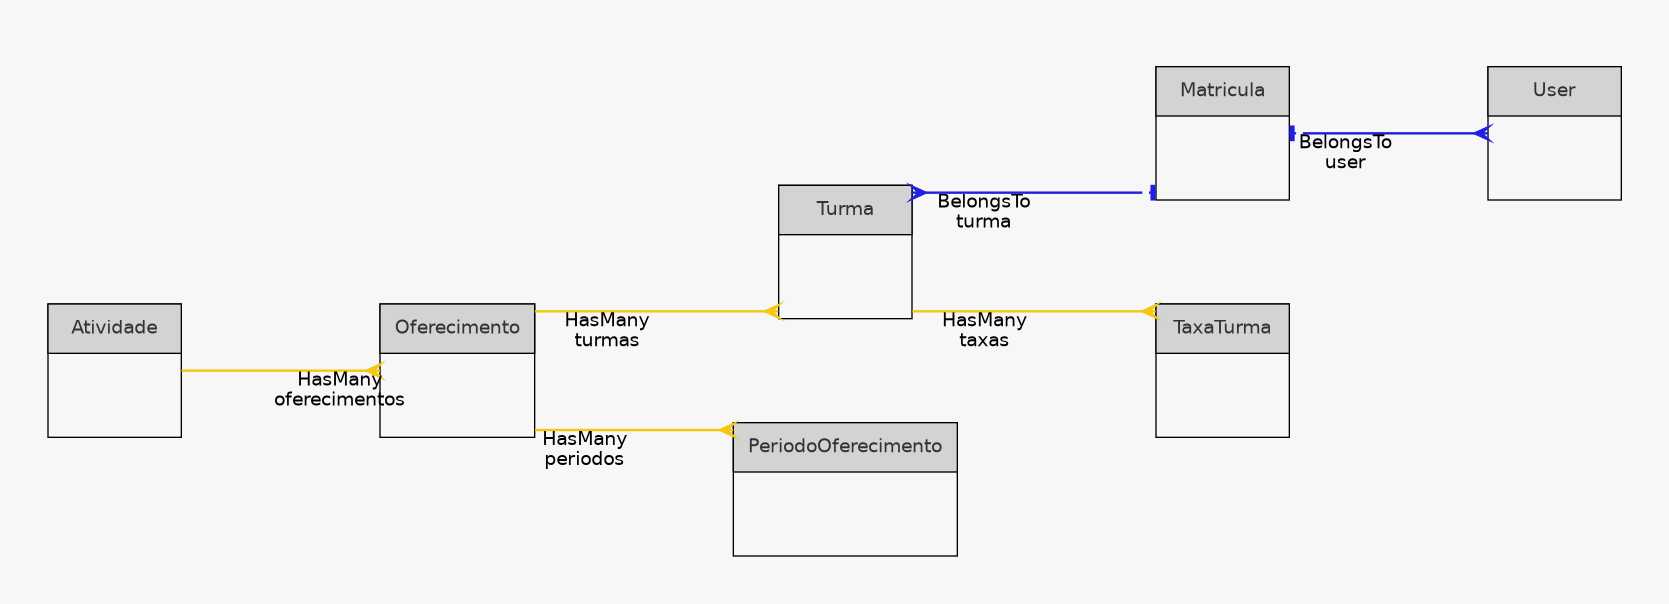
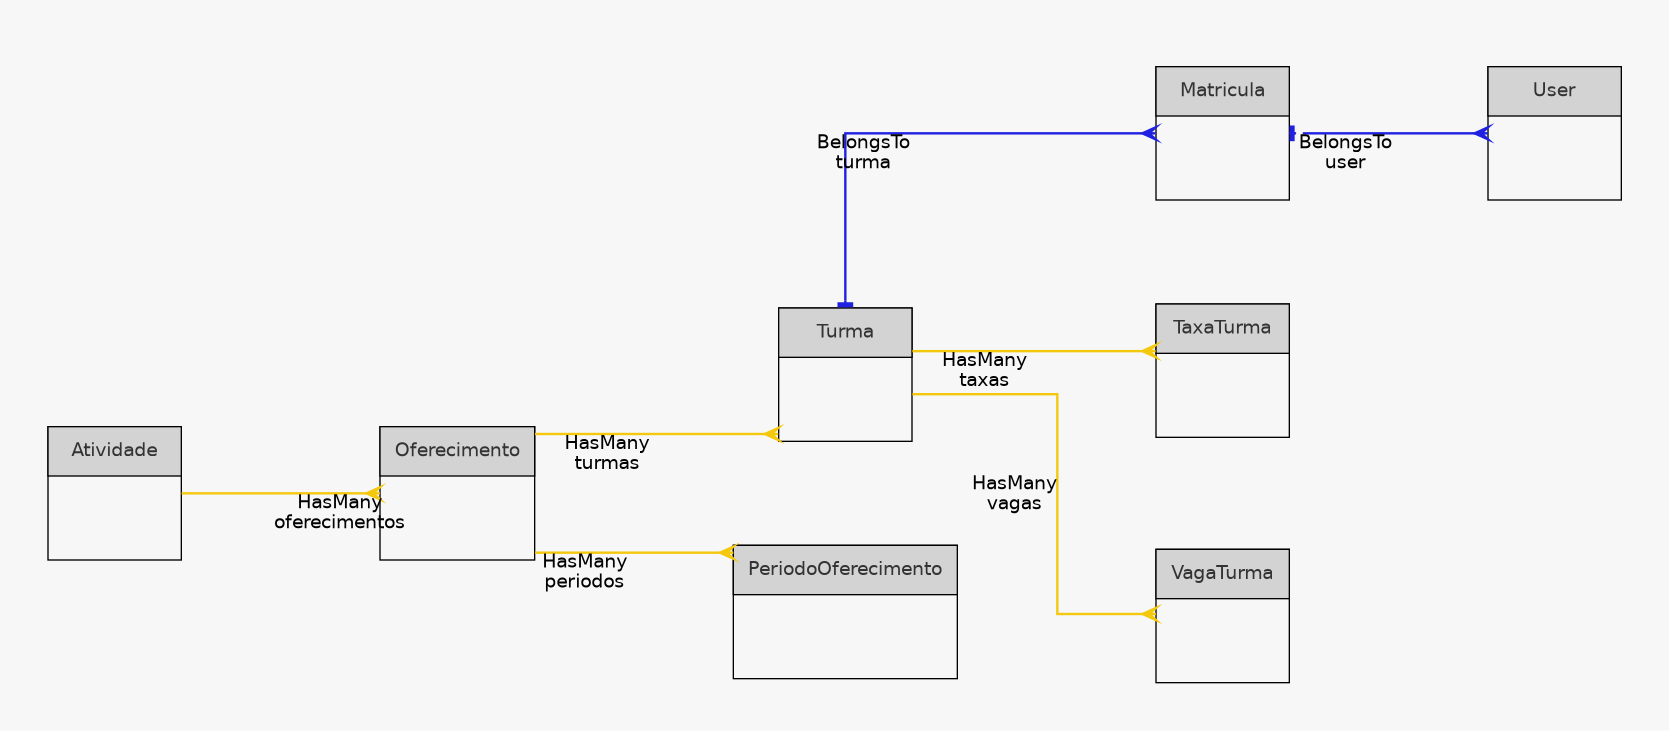
Alterado cadastro de vagas

diff --git a/resources/views/turmas/partials/form.blade.php b/resources/views/turmas/partials/form.blade.php
@@ -31,6 +31,20 @@
         $atual = $taxasSalvas->get($key)?->valor;
         return $ativo ? old("taxas.{$perfil}.{$periodo}.valor", $atual) : $atual;
     };
+
+    $configVagas = $turma?->exists
+        ? $turma->configuracaoVagas()
+        : \App\Models\VagaTurma::configuracao(isset($oferecimento) ? $oferecimento->atividade?->tipo : null);
+    $perfisVagas = collect($configVagas['perfis'])->mapWithKeys(fn($perfil) => [$perfil => config('cepe.perfil.' . $perfil)]);
+    if ($configVagas['reservadas']) {
+        $perfisVagas[\App\Models\VagaTurma::RESERVADA] = 'Reservadas';
+    }
+
+    $vagasSalvas = $turma?->vagas->keyBy(fn($vaga) => "{$vaga->perfil}-{$vaga->tamanho}") ?? collect();
+    $valorVaga = function ($perfil, $tamanho) use ($ativo, $vagasSalvas) {
+        $atual = $vagasSalvas->get("{$perfil}-{$tamanho}")?->quantidade;
+        return $ativo ? old('vagas.' . $perfil . ($tamanho === '' ? '' : ".{$tamanho}"), $atual) : $atual;
+    };
 @endphp
 
 <input type="hidden" name="form_key" value="{{ $formKey }}">
@@ -118,20 +132,55 @@
     </div>
 </div>
 
-<div class="form-row">
-    <div class="form-group col-md-4">
-        <label for="{{ $formKey }}-vagas_usp">Vagas Comunidade USP</label>
-        <input type="number" class="form-control{{ $invalido('vagas_usp') }}" id="{{ $formKey }}-vagas_usp" name="vagas_usp" min="0" step="1" value="{{ $valor('vagas_usp') }}">
+@if($configVagas['ano_nascimento'])
+    <div class="form-row">
+        <div class="form-group col-md-3">
+            <label for="{{ $formKey }}-ano_nascimento_minimo">Nascidos a partir de (ano)</label>
+            <input type="number" class="form-control{{ $invalido('ano_nascimento_minimo') }}" id="{{ $formKey }}-ano_nascimento_minimo" name="ano_nascimento_minimo" min="1900" max="2100" step="1" value="{{ $valor('ano_nascimento_minimo') }}">
+        </div>
+        <div class="form-group col-md-3">
+            <label for="{{ $formKey }}-ano_nascimento_maximo">Nascidos até (ano)</label>
+            <input type="number" class="form-control{{ $invalido('ano_nascimento_maximo') }}" id="{{ $formKey }}-ano_nascimento_maximo" name="ano_nascimento_maximo" min="1900" max="2100" step="1" value="{{ $valor('ano_nascimento_maximo') }}">
+        </div>
     </div>
-    <div class="form-group col-md-4">
-        <label for="{{ $formKey }}-vagas_papfe">Vagas PAPFE</label>
-        <input type="number" class="form-control{{ $invalido('vagas_papfe') }}" id="{{ $formKey }}-vagas_papfe" name="vagas_papfe" min="0" step="1" value="{{ $valor('vagas_papfe') }}">
+@endif
+
+<h6 class="text-secondary font-weight-bold mt-4">Vagas{{ $configVagas['tamanhos'] ? ' por Tamanho de Camiseta' : '' }}</h6>
+@if($configVagas['tamanhos'])
+    <div class="table-responsive">
+        <table class="table table-sm table-bordered">
+            <thead>
+                <tr>
+                    <th></th>
+                    @foreach($configVagas['tamanhos'] as $tamanho => $rotuloTamanho)
+                        <th class="text-center">{{ $rotuloTamanho }}</th>
+                    @endforeach
+                </tr>
+            </thead>
+            <tbody>
+                @foreach($perfisVagas as $perfil => $label)
+                    <tr>
+                        <td class="align-middle">{{ $label }}</td>
+                        @foreach($configVagas['tamanhos'] as $tamanho => $rotuloTamanho)
+                            <td>
+                                <input type="number" class="form-control form-control-sm{{ $invalido("vagas.{$perfil}.{$tamanho}") }}" aria-label="{{ $label }} - {{ $rotuloTamanho }}" name="vagas[{{ $perfil }}][{{ $tamanho }}]" min="0" step="1" value="{{ $valorVaga($perfil, $tamanho) }}">
+                            </td>
+                        @endforeach
+                    </tr>
+                @endforeach
+            </tbody>
+        </table>
     </div>
-    <div class="form-group col-md-4">
-        <label for="{{ $formKey }}-vagas_externa">Vagas Comunidade Externa</label>
-        <input type="number" class="form-control{{ $invalido('vagas_externa') }}" id="{{ $formKey }}-vagas_externa" name="vagas_externa" min="0" step="1" value="{{ $valor('vagas_externa') }}">
+@else
+    <div class="form-row">
+        @foreach($perfisVagas as $perfil => $label)
+            <div class="form-group col-md">
+                <label for="{{ $formKey }}-vagas_{{ $perfil }}">{{ $label }}</label>
+                <input type="number" class="form-control{{ $invalido('vagas.' . $perfil) }}" id="{{ $formKey }}-vagas_{{ $perfil }}" name="vagas[{{ $perfil }}]" min="0" step="1" value="{{ $valorVaga($perfil, '') }}">
+            </div>
+        @endforeach
     </div>
-</div>
+@endif
 
 <div class="form-group">
     <label for="{{ $formKey }}-observacoes">Observações</label>

diff --git a/app/Http/Controllers/TurmaController.php b/app/Http/Controllers/TurmaController.php
@@ -5,6 +5,7 @@ namespace App\Http\Controllers;
 use Illuminate\Http\Request;
 use App\Models\Turma;
 use App\Models\Oferecimento;
+use App\Models\VagaTurma;
 use App\Http\Requests\TurmaRequest;
 use Illuminate\Support\Facades\Gate;
 
@@ -34,11 +35,12 @@ class TurmaController extends Controller
         Gate::authorize('admin');
         $turma = new Turma;
         $dados = $request->validated();
-        unset($dados['taxas']);
+        unset($dados['taxas'], $dados['vagas']);
         $turma->fill($dados);
         $turma->user_id = auth()->id();
         $turma->save();
         $this->syncTaxas($turma, $request->validated('taxas', []));
+        $this->syncVagas($turma, $request->validated('vagas', []));
         return $this->voltarParaOferecimento($turma);
     }
 
@@ -60,11 +62,12 @@ class TurmaController extends Controller
     public function update(TurmaRequest $request, Turma $turma){
         Gate::authorize('admin');
         $dados = $request->validated();
-        unset($dados['taxas']);
+        unset($dados['taxas'], $dados['vagas']);
         $turma->fill($dados);
         $turma->user_id = auth()->id();
         $turma->save();
         $this->syncTaxas($turma, $request->validated('taxas', []));
+        $this->syncVagas($turma, $request->validated('vagas', []));
         return $this->voltarParaOferecimento($turma);
     }
 
@@ -88,6 +91,35 @@ class TurmaController extends Controller
         }
 
         return redirect('/turmas');
+    }
+
+    private function syncVagas(Turma $turma, array $vagas): void
+    {
+        $config = $turma->load('oferecimento.atividade')->configuracaoVagas();
+        $perfis = array_merge($config['perfis'], $config['reservadas'] ? [VagaTurma::RESERVADA] : []);
+        $tamanhos = array_map('strval', array_keys($config['tamanhos']));
+
+        $vagas_id = [];
+        foreach ($vagas as $perfil => $valor) {
+            foreach (is_array($valor) ? $valor : ['' => $valor] as $tamanho => $quantidade) {
+                $tamanho = (string) $tamanho;
+                if ($quantidade === null || $quantidade === '' || !in_array($perfil, $perfis)) {
+                    continue;
+                }
+                if ($tamanhos ? !in_array($tamanho, $tamanhos, true) : $tamanho !== '') {
+                    continue;
+                }
+                $model = $turma->vagas()->updateOrCreate([
+                    'perfil' => $perfil,
+                    'tamanho' => $tamanho,
+                ], [
+                    'quantidade' => $quantidade,
+                ]);
+                $vagas_id[] = $model->id;
+            }
+        }
+
+        $turma->vagas()->whereNotIn('id', $vagas_id)->delete();
     }
 
     private function syncTaxas(Turma $turma, array $taxas): void

diff --git a/database/migrations/2026_10_02_120000_create_vagas_turma_table.php b/database/migrations/2026_10_02_120000_create_vagas_turma_table.php
@@ -1,0 +1,70 @@
+<?php
+
+use Illuminate\Database\Migrations\Migration;
+use Illuminate\Database\Schema\Blueprint;
+use Illuminate\Support\Facades\DB;
+use Illuminate\Support\Facades\Schema;
+
+return new class extends Migration
+{
+    private array $legado = [
+        'vagas_usp' => 'tax_in',
+        'vagas_papfe' => 'tax_papfe',
+        'vagas_externa' => 'tax_ex',
+    ];
+
+    public function up(): void
+    {
+        Schema::create('vagas_turma', function (Blueprint $table) {
+            $table->id();
+            $table->foreignId('turma_id')->constrained('turmas')->onDelete('cascade');
+            $table->string('perfil'); // Ex: tax_in, tax_ex, tax_papfe, tax_alumni ou 'reservada'
+            $table->string('tamanho')->default(''); // tamanho de camiseta (volta USP e voltinha); vazio quando não se aplica
+            $table->unsignedInteger('quantidade');
+            $table->timestamps();
+
+            $table->unique(['turma_id', 'perfil', 'tamanho']);
+        });
+
+        foreach (DB::table('turmas')->get() as $turma) {
+            foreach ($this->legado as $coluna => $perfil) {
+                if ($turma->{$coluna} === null) {
+                    continue;
+                }
+                DB::table('vagas_turma')->insert([
+                    'turma_id' => $turma->id,
+                    'perfil' => $perfil,
+                    'tamanho' => '',
+                    'quantidade' => $turma->{$coluna},
+                    'created_at' => now(),
+                    'updated_at' => now(),
+                ]);
+            }
+        }
+
+        Schema::table('turmas', function (Blueprint $table) {
+            $table->dropColumn(array_keys($this->legado));
+            $table->unsignedSmallInteger('ano_nascimento_minimo')->nullable();
+            $table->unsignedSmallInteger('ano_nascimento_maximo')->nullable();
+        });
+    }
+
+    public function down(): void
+    {
+        Schema::table('turmas', function (Blueprint $table) {
+            $table->dropColumn(['ano_nascimento_minimo', 'ano_nascimento_maximo']);
+            foreach (array_keys($this->legado) as $coluna) {
+                $table->integer($coluna)->nullable();
+            }
+        });
+
+        foreach ($this->legado as $coluna => $perfil) {
+            $vagas = DB::table('vagas_turma')->where('perfil', $perfil)->where('tamanho', '')->get();
+            foreach ($vagas as $vaga) {
+                DB::table('turmas')->where('id', $vaga->turma_id)->update([$coluna => $vaga->quantidade]);
+            }
+        }
+
+        Schema::dropIfExists('vagas_turma');
+    }
+};

diff --git a/config/cepe.php b/config/cepe.php
@@ -2,12 +2,12 @@
 
 return [
     'perfil' => [
-        'tax_papfe'  => 'Programa de Apoio à Permanência e Formação Estudantil',
-        'tax_alumni' => 'Egressos de graduação e pós-graduação',
-        'tax_in'    => 'Comunidade USP',
-        'tax_ex'    => 'Comunidade Externa',
+        'tax_papfe'  => 'PAPFE',
+        'tax_alumni' => 'Alumni',
+        'tax_in'    => 'USP',
+        'tax_ex'    => 'Externos',
         'tax_ter'   =>  'Terceira Idade',
-        'tax_cepe'  =>  'Comunidade CEPEUSP',
+        'tax_cepe'  =>  'CEPEUSP',
         'tax_child' => 'Dependente'
     ],
     'tipos_inscricao' => [
@@ -26,5 +26,34 @@ return [
         'externa' => 'Período de Inscrições Comunidade Externa',
         'segundo' => 'Segundo Período de Inscrições',
         'curso'   => 'Período do Curso',
-    ]
+    ],
+    'tamanhos_camiseta' => [
+        'voltausp' => [
+            'pp' => 'PP', 'p' => 'P', 'm' => 'M', 'g' => 'G', 'gg' => 'GG', 'exg' => 'EXG',
+        ],
+        'voltinhausp' => [
+            '6' => '6', '8' => '8', '10' => '10', '12' => '12', '14' => '14',
+            'pp' => 'PP', 'p' => 'P', 'm' => 'M',
+        ],
+    ],
+    'vagas' => [
+        'padrao' => [
+            'perfis' => ['tax_in', 'tax_papfe', 'tax_ex'],
+            'tamanhos' => null,
+            'reservadas' => false,
+            'ano_nascimento' => false,
+        ],
+        'voltausp' => [
+            'perfis' => ['tax_in', 'tax_alumni', 'tax_papfe', 'tax_ex'],
+            'tamanhos' => 'voltausp',
+            'reservadas' => true,
+            'ano_nascimento' => false,
+        ],
+        'voltinhausp' => [
+            'perfis' => ['tax_in'],
+            'tamanhos' => 'voltinhausp',
+            'reservadas' => true,
+            'ano_nascimento' => true,
+        ],
+    ],
 ];

diff --git a/app/Http/Requests/TurmaRequest.php b/app/Http/Requests/TurmaRequest.php
@@ -26,9 +26,16 @@ class TurmaRequest extends FormRequest
             'idade_maxima' => 'nullable|integer|min:1|gte:idade_minima',
             'nivel' => 'nullable|string|max:255',
             'local' => 'nullable|string|max:255',
-            'vagas_usp' => 'nullable|integer|min:0',
-            'vagas_papfe' => 'nullable|integer|min:0',
-            'vagas_externa' => 'nullable|integer|min:0',
+            'ano_nascimento_minimo' => 'nullable|integer|digits:4',
+            'ano_nascimento_maximo' => 'nullable|integer|digits:4|gte:ano_nascimento_minimo',
+            'vagas' => 'nullable|array',
+            'vagas.*' => ['nullable', function ($attribute, $value, $fail) {
+                foreach (is_array($value) ? $value : [$value] as $quantidade) {
+                    if ($quantidade !== null && (!is_numeric($quantidade) || $quantidade < 0 || floor($quantidade) != $quantidade)) {
+                        return $fail('As vagas devem ser números inteiros maiores ou iguais a zero.');
+                    }
+                }
+            }],
             'observacoes' => 'nullable|string',
             'taxas' => 'nullable|array',
             'taxas.*.perfil' => 'required_with:taxas.*.valor|in:' . implode(',', array_keys(config('cepe.perfil'))),

diff --git a/app/Models/VagaTurma.php b/app/Models/VagaTurma.php
@@ -1,0 +1,35 @@
+<?php
+
+namespace App\Models;
+
+use Illuminate\Database\Eloquent\Model;
+
+class VagaTurma extends Model
+{
+    public const RESERVADA = 'reservada';
+
+    protected $table = 'vagas_turma';
+
+    protected $fillable = [
+        'turma_id',
+        'perfil',
+        'tamanho',
+        'quantidade',
+    ];
+
+    public function turma()
+    {
+        return $this->belongsTo(Turma::class);
+    }
+
+    /**
+     * Estrutura de vagas aplicável a um tipo de atividade (cursos e eventos usam 'padrao').
+     */
+    public static function configuracao(?string $tipo): array
+    {
+        $config = config('cepe.vagas.' . $tipo) ?? config('cepe.vagas.padrao');
+        $config['tamanhos'] = $config['tamanhos'] ? config('cepe.tamanhos_camiseta.' . $config['tamanhos']) : [];
+
+        return $config;
+    }
+}

diff --git a/app/Models/Turma.php b/app/Models/Turma.php
@@ -18,9 +18,8 @@ class Turma extends Model
         'idade_maxima',
         'nivel',
         'local',
-        'vagas_usp',
-        'vagas_papfe',
-        'vagas_externa',
+        'ano_nascimento_minimo',
+        'ano_nascimento_maximo',
         'observacoes',
         'info_contato',
         'declaracao',
@@ -44,6 +43,16 @@ class Turma extends Model
     public function matriculas()
     {
         return $this->hasMany(Matricula::class);
+    }
+
+    public function vagas()
+    {
+        return $this->hasMany(VagaTurma::class);
+    }
+
+    public function configuracaoVagas(): array
+    {
+        return VagaTurma::configuracao($this->oferecimento?->atividade?->tipo);
     }
 
     public function taxas()
